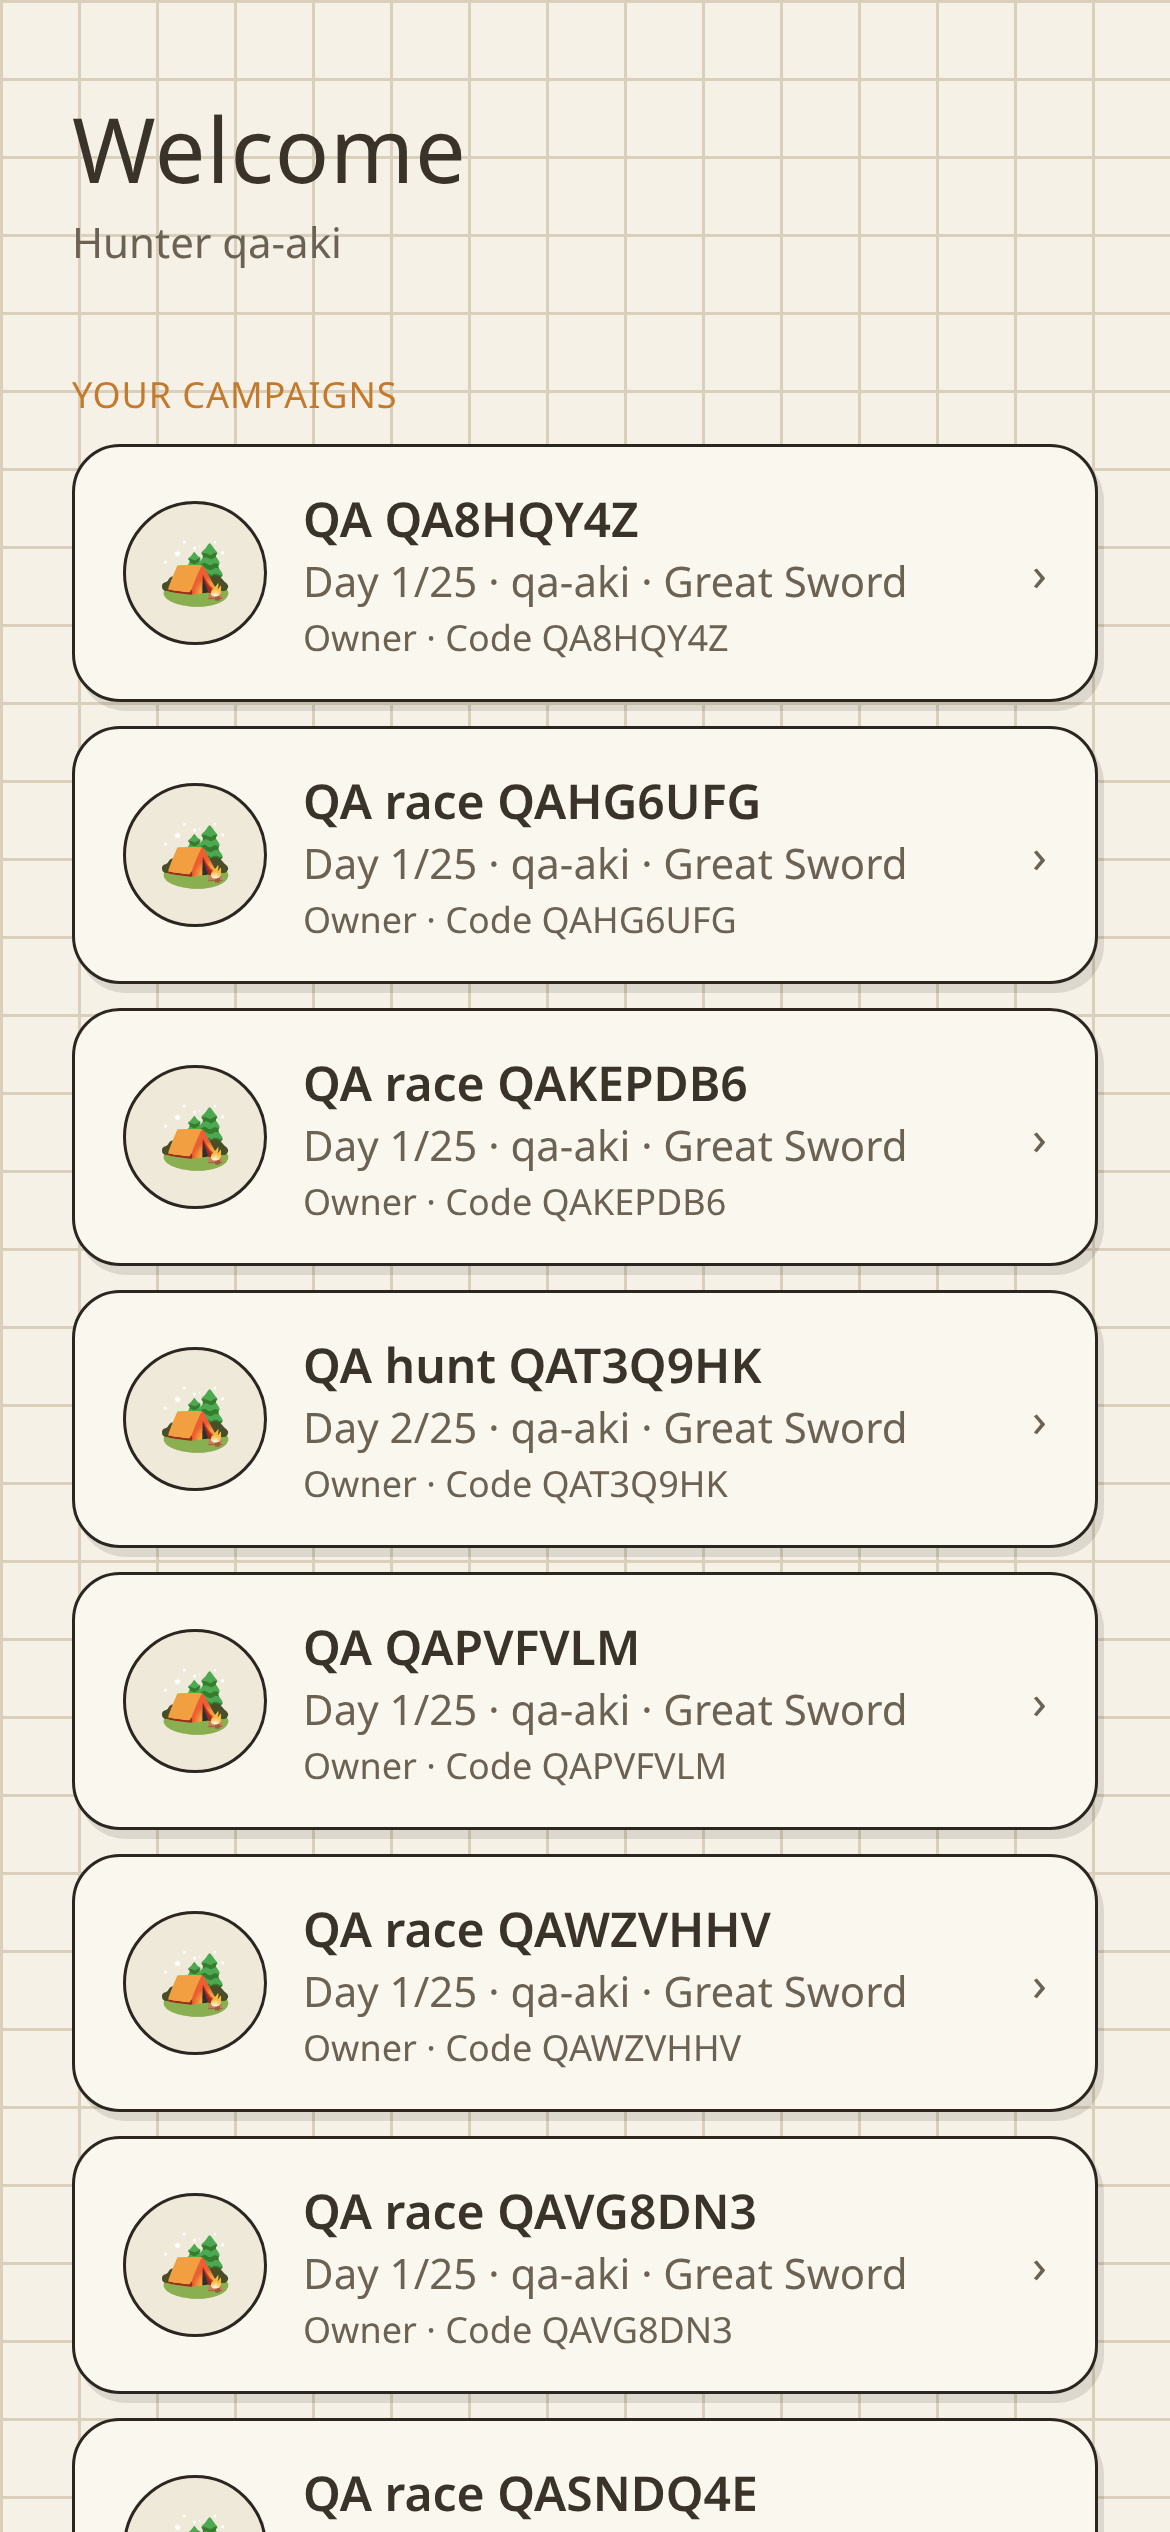
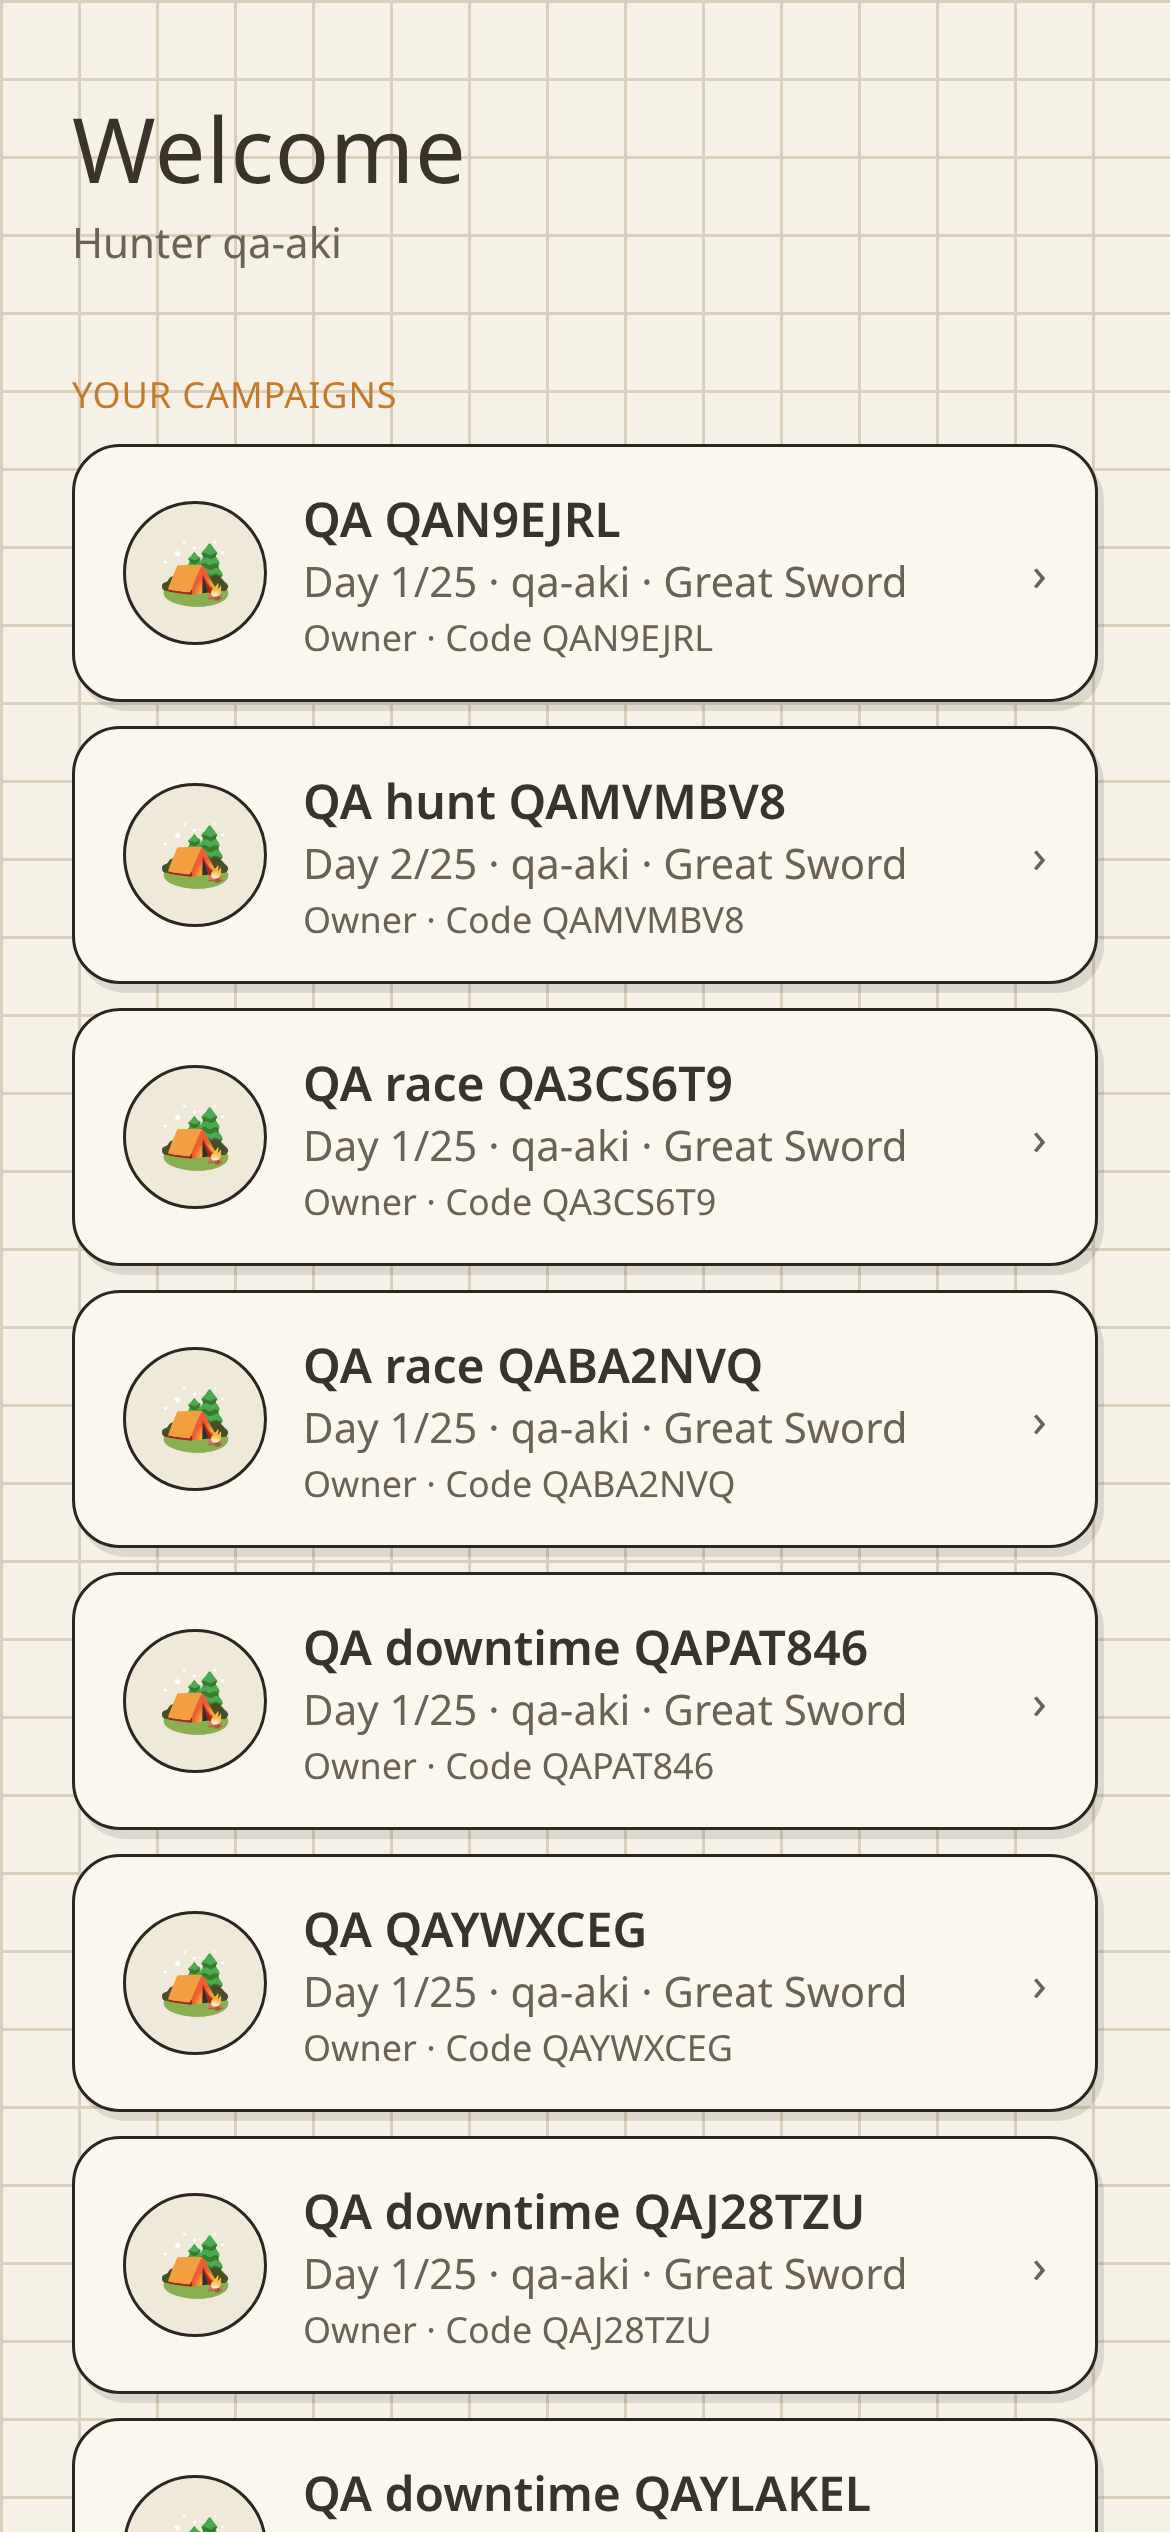
Isolate E2E specs per account; record the downtime concurrency gap
Specs shared three QA accounts, so running the whole suite back to back made
whichever spec ran next fail at sign-in — which read like a product bug in that
spec. Each spec now owns its accounts (qa-hunt-*, qa-race-*, qa-dt-*) and
authentication retries once. Full suite: 16 passed, 1 skipped.

Adds tests/e2e/downtime-race.spec.ts, marked test.fixme. active_downtime has
the same shape and hazard as active_quest -- six hunter-keyed maps plus
confirmedHunterIds in one jsonb column -- and a downtime day is by design
"everyone picks, then everyone confirms". The test reproduces something real
(the second hunter's pick does not survive for "Finish day" to enable), but I
could not establish whether the cause is the QA-1/QA-2 clobbering or just a
slower sync settle the test fails to wait for.

So the fix is deliberately NOT shipped: merge_active_downtime is written and
recorded in supabase/schema.sql, but the client still writes the column
directly. Shipping an unverified change to the sync path is not worth it, and
mergeActiveDowntime() in src/domain/downtime.ts already mitigates it partly on
the client. Written up as QA-6.

diff --git a/tests/e2e/downtime-race.spec.ts b/tests/e2e/downtime-race.spec.ts
@@ -1,0 +1,103 @@
+import { expect, test } from "@playwright/test";
+import { Hunter } from "./helpers/hunter";
+import { createCampaign, joinCampaign, makeJoinCode } from "./helpers/flows";
+import { campaignByJoinCode, clientFor, stateOf, waitFor } from "./helpers/db";
+
+/**
+ * A downtime day is by design "everyone picks their activities, then everyone
+ * confirms" — so `campaign_state.active_downtime` (six hunter-keyed maps plus
+ * `confirmedHunterIds`) is written concurrently as a matter of course.
+ *
+ * If a confirmation is lost the day never advances: the party is stuck on
+ * "waiting for N more hunters" with no way forward. The day counter is
+ * therefore the assertion that matters.
+ */
+test.describe.configure({ mode: "serial" });
+
+const JOIN_CODE = makeJoinCode();
+
+let aki: Hunter;
+let brand: Hunter;
+let cyra: Hunter;
+let campaignId: string;
+
+test.beforeAll(async ({ browser }) => {
+  aki = await Hunter.create(browser, "qa-dt-aki");
+  brand = await Hunter.create(browser, "qa-dt-brand");
+  cyra = await Hunter.create(browser, "qa-dt-cyra");
+
+  await createCampaign(aki, {
+    name: `QA downtime ${JOIN_CODE}`,
+    joinCode: JOIN_CODE,
+    weapon: "Great Sword",
+  });
+  await joinCampaign(brand, { joinCode: JOIN_CODE, weapon: "Bow" });
+  await joinCampaign(cyra, { joinCode: JOIN_CODE, weapon: "Hunting Horn" });
+
+  const db = await clientFor("qa-dt-aki");
+  campaignId = (await campaignByJoinCode(db, JOIN_CODE))!.id;
+});
+
+test.afterAll(async () => {
+  await Promise.all([aki?.dispose(), brand?.dispose(), cyra?.dispose()]);
+});
+
+test("a downtime day resolved by everyone at once still advances", async () => {
+  // UNFINISHED (QA-6). This reproduces something real — the second hunter's
+  // pick does not survive long enough for "Finish day" to enable — but it is
+  // not yet isolated well enough to say whether the cause is the same
+  // last-write-wins clobbering as QA-1/QA-2 or a slower sync settle. Marked
+  // fixme rather than deleted so the work is not lost. See docs/qa/e2e-report.md.
+  test.fixme(true, "QA-6: downtime concurrency not yet diagnosed");
+
+  const db = await clientFor("qa-dt-aki");
+  const downtime = async () => (await stateOf(db, campaignId))?.active_downtime;
+
+  // One hunter opens the downtime day; the others follow.
+  await aki.page.goto("/campaign/downtime");
+  await waitFor(downtime, (d) => d != null, { timeout: 30_000 });
+
+  await Promise.all([
+    brand.page.goto("/campaign/downtime"),
+    cyra.page.goto("/campaign/downtime"),
+  ]);
+  for (const hunter of [aki, brand, cyra]) {
+    await expect(hunter.page.getByText("Pet Poogie").first()).toBeVisible({
+      timeout: 30_000,
+    });
+  }
+
+  // Each hunter picks Poogie (the one activity with no further choices) and
+  // resolves it. Done one at a time, so the race under test is purely the
+  // confirmation below.
+  for (const hunter of [aki, brand, cyra]) {
+    await hunter.page.getByText("Pet Poogie").first().click();
+    const done = hunter.page.getByRole("button", { name: "Done" });
+    await done.waitFor({ state: "visible", timeout: 20_000 });
+    await done.click();
+    await expect(
+      hunter.page.getByRole("button", { name: "Finish day" }),
+    ).toBeEnabled({ timeout: 20_000 });
+  }
+
+  // …then all three finish the day at the same moment.
+  await Promise.all(
+    [aki, brand, cyra].map(async (hunter) => {
+      await hunter.page.getByRole("button", { name: "Finish day" }).click();
+      const yes = hunter.page.getByRole("button", { name: "Yes" });
+      await yes.waitFor({ state: "visible", timeout: 20_000 });
+      await yes.click();
+    }),
+  );
+
+  // If any confirmation were dropped, the day would never advance.
+  const campaign = await waitFor(
+    () => campaignByJoinCode(db, JOIN_CODE),
+    (c) => c!.day === 2,
+    { timeout: 40_000 },
+  );
+  expect(campaign!.day, "every hunter's confirmation must survive").toBe(2);
+
+  const after = await stateOf(db, campaignId);
+  expect(after!.active_downtime).toBeNull();
+});

diff --git a/tests/e2e/hunt.spec.ts b/tests/e2e/hunt.spec.ts
@@ -30,9 +30,9 @@ function captureAlerts(page: Page, sink: string[]): void {
 const alerts: string[] = [];
 
 test.beforeAll(async ({ browser }) => {
-  aki = await Hunter.create(browser, "qa-aki");
-  brand = await Hunter.create(browser, "qa-brand");
-  cyra = await Hunter.create(browser, "qa-cyra");
+  aki = await Hunter.create(browser, "qa-hunt-aki");
+  brand = await Hunter.create(browser, "qa-hunt-brand");
+  cyra = await Hunter.create(browser, "qa-hunt-cyra");
   for (const h of [aki, brand, cyra]) captureAlerts(h.page, alerts);
 
   await createCampaign(aki, {
@@ -43,7 +43,7 @@ test.beforeAll(async ({ browser }) => {
   await joinCampaign(brand, { joinCode: JOIN_CODE, weapon: "Bow" });
   await joinCampaign(cyra, { joinCode: JOIN_CODE, weapon: "Hunting Horn" });
 
-  const db = await clientFor("qa-aki");
+  const db = await clientFor("qa-hunt-aki");
   campaignId = (await campaignByJoinCode(db, JOIN_CODE))!.id;
 });
 
@@ -68,7 +68,7 @@ test("quest board gates tiers: 1★ open, higher tiers locked", async () => {
 });
 
 test("the lobby only releases the hunt once every hunter is ready", async () => {
-  const db = await clientFor("qa-aki");
+  const db = await clientFor("qa-hunt-aki");
   const quest = async () => (await stateOf(db, campaignId))!.active_quest;
 
   await aki.page.goto("/campaign/quests");
@@ -152,7 +152,7 @@ test("the hunt resolves and each hunter rolls their own loot", async () => {
     // Let this hunter's confirmation reach Postgres before the next hunter
     // loads. Without this the next client can pull a pre-confirmation snapshot
     // and push it back, erasing the previous hunter's loot (see QA report).
-    const db = await clientFor("qa-aki");
+    const db = await clientFor("qa-hunt-aki");
     await waitFor(
       async () => (await stateOf(db, campaignId))!.active_quest,
       (q) => q == null || countConfirmed(q) >= confirmedSoFar + 1,
@@ -170,7 +170,7 @@ function countConfirmed(activeQuest: { lootProgress?: Record<string, { confirmed
 let confirmedSoFar = 0;
 
 test("the party summary lands and the campaign day advances", async () => {
-  const db = await clientFor("qa-aki");
+  const db = await clientFor("qa-hunt-aki");
 
   // All three have confirmed, so the quest is either sitting on the party
   // summary or has already been dismissed past it.

diff --git a/tests/e2e/sync-race.spec.ts b/tests/e2e/sync-race.spec.ts
@@ -27,9 +27,9 @@ test.afterEach(async () => {
 
 async function freshParty(browser: Parameters<typeof Hunter.create>[0]) {
   const joinCode = makeJoinCode();
-  aki = await Hunter.create(browser, "qa-aki");
-  brand = await Hunter.create(browser, "qa-brand");
-  cyra = await Hunter.create(browser, "qa-cyra");
+  aki = await Hunter.create(browser, "qa-race-aki");
+  brand = await Hunter.create(browser, "qa-race-brand");
+  cyra = await Hunter.create(browser, "qa-race-cyra");
 
   await createCampaign(aki, {
     name: `QA race ${joinCode}`,
@@ -39,7 +39,7 @@ async function freshParty(browser: Parameters<typeof Hunter.create>[0]) {
   await joinCampaign(brand, { joinCode, weapon: "Bow" });
   await joinCampaign(cyra, { joinCode, weapon: "Hunting Horn" });
 
-  const db = await clientFor("qa-aki");
+  const db = await clientFor("qa-race-aki");
   const campaignId = (await campaignByJoinCode(db, joinCode))!.id;
   const quest = async () => (await stateOf(db, campaignId))?.active_quest;
   return { joinCode, campaignId, db, quest };

diff --git a/src/lib/sync/engine.ts b/src/lib/sync/engine.ts
@@ -667,19 +667,20 @@ async function push(campaign: Campaign): Promise<void> {
  * of the stored row, under a row lock. See docs/qa/e2e-report.md (QA-1, QA-2).
  */
 async function pushActiveQuest(campaign: Campaign, userId: string | null) {
+  const quest = campaign.activeQuest ?? null;
   const hunterId = ownHunter(campaign, userId)?.id;
   if (!hunterId) {
     // No hunter of our own in this campaign (e.g. mid-join): fall back to a
     // direct write, since there are no per-hunter entries we could own.
     await supabase
       .from("campaign_state")
-      .update({ active_quest: campaign.activeQuest ?? null })
+      .update({ active_quest: quest })
       .eq("campaign_id", campaign.id);
     return;
   }
   const { error } = await supabase.rpc("merge_active_quest", {
     p_campaign_id: campaign.id,
-    p_quest: campaign.activeQuest ?? null,
+    p_quest: quest,
     p_hunter_id: hunterId,
   });
   if (error) throw error;

diff --git a/tests/e2e/helpers/hunter.ts b/tests/e2e/helpers/hunter.ts
@@ -25,8 +25,26 @@ export class Hunter {
     return hunter;
   }
 
-  /** Sign up; fall back to sign-in so the suite is re-runnable. */
+  /**
+   * Sign up; fall back to sign-in so the suite is re-runnable.
+   *
+   * Retried once: with several specs running back to back the auth endpoint
+   * occasionally refuses a request, and a bare failure here reads like a
+   * product bug in whichever spec happened to run next.
+   */
   private async authenticate(): Promise<void> {
+    for (let attempt = 1; ; attempt += 1) {
+      try {
+        await this.attemptAuth();
+        return;
+      } catch (err) {
+        if (attempt >= 2) throw err;
+        await this.page.waitForTimeout(2_000);
+      }
+    }
+  }
+
+  private async attemptAuth(): Promise<void> {
     await this.page.goto("/login");
     await expect(this.page.getByRole("heading", { name: "MHWBG Companion" })).toBeVisible();
 

diff --git a/src/lib/sync/mappers.ts b/src/lib/sync/mappers.ts
@@ -255,6 +255,11 @@ export function rowToHunter(row: HunterRow): Hunter {
  * `lootProgress`, `investigationLoot`), so a plain last-write-wins column
  * update lets two clients clobber each other's hunters. See docs/qa/e2e-report.md
  * (QA-1, QA-2).
+ *
+ * `active_downtime` has the same shape and the same hazard, but is still a
+ * plain column write — see QA-6 in the report. It is partly mitigated on the
+ * client by `mergeActiveDowntime` (`src/domain/downtime.ts`), which merges
+ * local over remote when a remote row is applied.
  */
 export function campaignToStateUpdate(
   c: Campaign,

diff --git a/docs/qa/e2e-report.md b/docs/qa/e2e-report.md
@@ -110,9 +110,30 @@ entries the quest starter seeds *for the whole party* in
 `completeQuestSuccess`. The party then never reached the loot screen. That is
 what the third rule in the table above exists for.
 
-**Not yet given the same treatment:** `activeDowntime`'s per-hunter
-confirmations are the same shape and the same hazard, but were not covered by
-this pass.
+### QA-6 — Downtime concurrency · **open, not diagnosed**
+
+`active_downtime` is the same shape and the same hazard: six hunter-keyed maps
+(`picks`, `provisions`, `resourceRoll`, `chefElement`, `handlerProposals`,
+`poogieDone`) plus `confirmedHunterIds`, in one jsonb column. A downtime day is
+by design "everyone picks, then everyone confirms", so concurrent writes are the
+rule rather than the exception.
+
+`tests/e2e/downtime-race.spec.ts` reproduces *something* — with three hunters in
+a shared downtime day, the second hunter's Poogie pick does not survive long
+enough for "Finish day" to enable, and the server row ends up holding only one
+hunter's `picks` and `poogieDone`. What is **not** yet established is whether the
+cause is the QA-1/QA-2 clobbering or simply a slower sync settle that the test
+does not wait for.
+
+The test is therefore marked `test.fixme()` rather than deleted or claimed as a
+bug, and **the fix is deliberately not shipped**: a `merge_active_downtime` RPC
+is written and applied to the database (recorded in `supabase/schema.sql`), but
+the client still writes the column directly, because an unverified change to the
+sync path is not worth shipping on reasoning alone.
+
+There is already a partial client-side mitigation that predates this work:
+`mergeActiveDowntime()` in `src/domain/downtime.ts` merges local over remote when
+a remote row is applied in `applyRemoteCampaign`.
 
 ### QA-3 — "Beitreten" is German in an otherwise English UI · **low**
 
